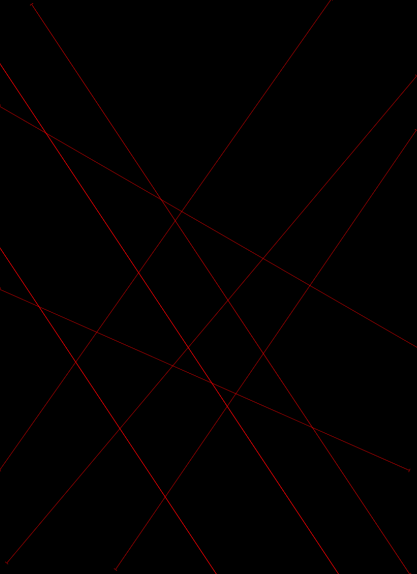
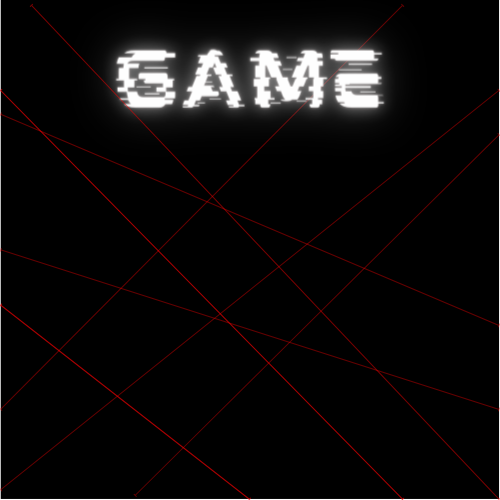
Adding background

diff --git a/main.py b/main.py
@@ -1,45 +1,25 @@
 from tkinter import *
 from PIL import Image, ImageTk
 
+#This class is the label
+class Startpage:
+    def __init__(self, game):
 
-class Quiz:
-    def __init__(self, parent):
-
-    
-        self.bg_image = Image.open("Game.png") 
-      
-        self.bg_image = self.bg_image.resize((450, 350), Image.LANCZOS) 
-      
-        self.bg_image = ImageTk.PhotoImage(self.bg_image) 
-        
-        self.quiz_frame=Frame(parent, bg = background_color)
-        self.quiz_frame.grid()         
-        
-        self.image_label= Label(self.quiz_frame, image=self.bg_image)
-        self.image_label.place(x=0, y=0, relwidth=1, relheight=1) 
-
-        self.heading_label=Label(self.quiz_frame, text="NZ Road Rules", font=("Tw Cen MT","18","bold")
-        self.heading_label.grid(row=0) 
+        self.heading=Label(game, text="Enter your name", font="arial", fg="white", bg="black")
+        self.heading.place(x=170, y=150)   
+        self.entry_username=Entry(game)
+        self.entry_username.place(x=160, y=200)
 
         
-        self.user_label=Label(self.quiz_frame, text="Username below: ", font=("Tw Cen MT","16")
-        self.user_label.grid(row=1) 
 
-        
-        self.entry_box=Entry(self.quiz_frame)
-        self.entry_box.grid(row=2,padx=20, pady=20)
-
-       
-        self.continue_button = Button(self.quiz_frame, text="Continue", font=("Helvetica", "13", "bold"), bg="green", command=self.name_collection)
-        self.continue_button.grid(row=3, padx=20, pady=20)        
-
-
-    def name_collection(self):
-        name=self.entry_box.get()
-        self.quiz_frame.destroy()
-
-if __name__ == "__main__":
-    game = Tk()
-    game.title("Games") 
-    quiz_instance = Quiz(game) 
-    game.mainloop()
+#main game window
+game = Tk() 
+game.title("Games")
+game.geometry("500x450")
+bg = PhotoImage(file="Game.png")
+bglabel=Label(game, image=bg)
+bglabel.place(x=0, y=0)
+#creating the frames
+Startpage(game)
+game.mainloop()
+   
